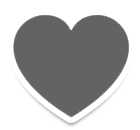
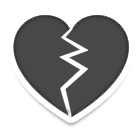
added btn unheart

diff --git a/public/css/main.css b/public/css/main.css
@@ -1314,7 +1314,7 @@ z-index: 1;
   text-align: center;
   bottom: 109px;
   position: relative;
-  font-size: 60px;
+  font-size: 50px;
   width: 100px;
   height: 66px;
 }
